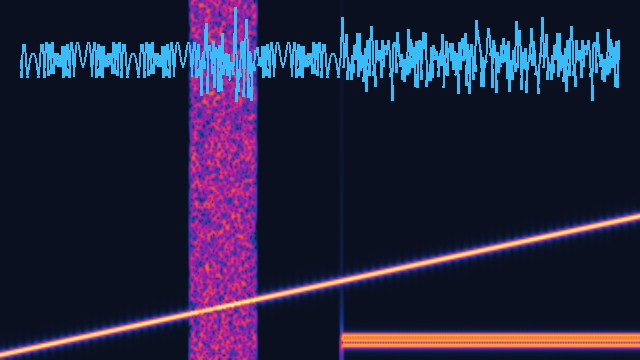
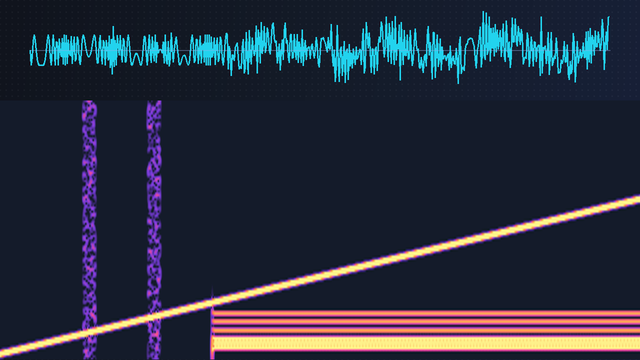
Refactor code structure for improved readability and maintainability

diff --git a/projects/compression/demo.js b/projects/compression/demo.js
@@ -88,7 +88,7 @@ const PRESETS = {
   'Fax мөр': '□□□□□□□□□□□□■■■■□□□□□□□□□□□□□□□■■■■■■■■■■□□□□□□□□□□□□□□□',
   'Random': null,
 };
-const PALETTE = ['#2563eb', '#16a34a', '#dc2626', '#9333ea', '#ea580c', '#0891b2', '#db2777', '#65a30d', '#7c3aed', '#ca8a04'];
+const PALETTE = ['#22d3ee', '#4ade80', '#fbbf24', '#f472b6', '#fb923c', '#a78bfa', '#fb7185', '#a3e635', '#60a5fa', '#facc15'];
 
 export function mount(root) {
   const h = (tag, props = {}, ...kids) => {
@@ -121,10 +121,10 @@ export function mount(root) {
   }
   input.oninput = () => { clearTimeout(debounce); debounce = setTimeout(() => { hStep = Infinity; colorOf.clear(); render(); }, 150); };
 
-  const card = (...kids) => h('div', { style: 'border:1px solid var(--line);border-radius:10px;padding:12px;background:var(--card)' }, ...kids);
+  const card = (...kids) => h('div', { className: 'navy-panel', style: 'border-radius:12px;padding:14px' }, ...kids);
   const note = s => h('p', { style: 'margin:0 0 10px;font-size:.9rem;color:var(--muted);line-height:1.5' }, s);
   const sizeLine = (bits, orig) => h('div', { style: 'margin-top:10px;font-size:.95rem;font-weight:600' },
-    `${bits.toLocaleString()} bit vs ${orig.toLocaleString()} bit → `, h('span', { style: `color:${bits < orig ? '#16a34a' : '#dc2626'}` }, `${Math.round((bits / orig) * 100)}%`));
+    `${bits.toLocaleString()} bit vs ${orig.toLocaleString()} bit → `, h('span', { style: `color:${bits < orig ? '#4ade80' : '#fb7185'}` }, `${Math.round((bits / orig) * 100)}%`));
 
   function renderRle(text, orig) {
     const { runs, bits } = rle(text);
@@ -175,16 +175,16 @@ export function mount(root) {
     forest.forEach(t => { place(t, 0); leaf += 0.6; });
     const W = Math.max(leaf * DX, 200), Hh = depthMax * DY + 56;
     svg.setAttribute('viewBox', `0 0 ${W} ${Hh}`);
-    svg.setAttribute('style', `width:100%;max-height:${Math.min(520, Hh * 1.4)}px;font-family:Inter,system-ui,sans-serif`);
+    svg.setAttribute('style', `display:block;width:100%;max-height:${Math.min(520, Hh * 1.4)}px;font-family:Inter,system-ui,sans-serif;padding:8px`);
     let out = '';
     const draw = n => {
       if (n.ch !== undefined) {
-        out += `<circle cx="${n._x}" cy="${n._y}" r="${R}" fill="${tint(n.ch)}"/><text x="${n._x}" y="${n._y + 1}" text-anchor="middle" dominant-baseline="central" font-size="12" font-weight="700" fill="#fff">${esc(show(n.ch))}</text><text x="${n._x}" y="${n._y + R + 11}" text-anchor="middle" font-size="10" fill="var(--muted)">${n.f}</text>`;
+        out += `<circle cx="${n._x}" cy="${n._y}" r="${R}" fill="${tint(n.ch)}"/><text x="${n._x}" y="${n._y + 1}" text-anchor="middle" dominant-baseline="central" font-size="12" font-weight="700" fill="#10141d">${esc(show(n.ch))}</text><text x="${n._x}" y="${n._y + R + 11}" text-anchor="middle" font-size="10" fill="var(--muted)">${n.f}</text>`;
         return;
       }
       for (const [c, bit] of [[n.left, 0], [n.right, 1]]) {
-        out += `<line x1="${n._x}" y1="${n._y}" x2="${c._x}" y2="${c._y}" stroke="var(--muted)" stroke-width="1.4"/>`;
-        out += `<text x="${(n._x + c._x) / 2 + (bit ? 6 : -6)}" y="${(n._y + c._y) / 2}" text-anchor="middle" font-size="10" font-weight="700" fill="var(--accent)">${bit}</text>`;
+        out += `<line x1="${n._x}" y1="${n._y}" x2="${c._x}" y2="${c._y}" stroke="var(--muted)" stroke-width="1.6"/>`;
+        out += `<text x="${(n._x + c._x) / 2 + (bit ? 6 : -6)}" y="${(n._y + c._y) / 2}" text-anchor="middle" font-size="10" font-weight="700" fill="#fbbf24">${bit}</text>`;
         draw(c);
       }
       out += `<circle cx="${n._x}" cy="${n._y}" r="${R}" fill="var(--card)" stroke="var(--fg)" stroke-width="1.4"/><text x="${n._x}" y="${n._y + 1}" text-anchor="middle" dominant-baseline="central" font-size="11" fill="var(--fg)">${n.f}</text>`;
@@ -212,7 +212,7 @@ export function mount(root) {
       if (t.ch !== undefined) { list.append(h('span', { textContent: show(t.ch), style: 'padding:2px 5px;margin:1px;border-radius:5px;background:var(--code)' })); return; }
       const col = PALETTE[i % PALETTE.length];
       for (let k = 0; k < t.len; k++) { spans[t.at + k].style.color = col; spans[t.at + k].style.fontWeight = '700'; }
-      const chip = h('span', { textContent: `⟲${t.off},${t.len}`, title: `${t.off} тэмдэгтийн өмнөхөөс ${t.len}-ийг хуулах`, style: `cursor:help;padding:2px 6px;margin:1px;border-radius:5px;color:#fff;background:${col}` });
+      const chip = h('span', { textContent: `⟲${t.off},${t.len}`, title: `${t.off} тэмдэгтийн өмнөхөөс ${t.len}-ийг хуулах`, style: `cursor:help;padding:2px 6px;margin:1px;border-radius:5px;color:#10141d;font-weight:700;background:${col}` });
       chip.onmouseenter = () => mark(t, true); chip.onmouseleave = () => mark(t, false);
       list.append(chip);
     });

diff --git a/projects/trie/demo.js b/projects/trie/demo.js
@@ -68,7 +68,7 @@ export function mount(root) {
   const setBtns = Object.keys(SETS).map(k => h('button', { textContent: k, onclick: () => load(k) }));
   seg.append(...setBtns);
   const status = h('div', { style: 'font-size:.9rem;min-height:1.4em' });
-  const svgWrap = h('div', { style: 'flex:1;min-height:240px;overflow:auto;border-top:1px solid var(--line);border-bottom:1px solid var(--line)' });
+  const svgWrap = h('div', { className: 'navy-panel', style: 'flex:1;min-height:240px;overflow:auto;margin:0 14px' });
   const sugg = h('div', { style: 'display:flex;flex-wrap:wrap;gap:6px;align-items:center' });
   const stats = h('div', { style: 'font-size:.82rem;color:var(--muted)' });
   const row = (...kids) => h('div', { style: 'display:flex;flex-wrap:wrap;gap:8px 12px;align-items:center' }, ...kids);
@@ -169,13 +169,13 @@ export function mount(root) {
     let out = '';
     for (const [a, b] of edges) {
       const p = pos.get(a), q = pos.get(b), on = onPath.has(a) && onPath.has(b);
-      out += `<path d="M${p.x},${p.y} C${p.x + DX / 2},${p.y} ${q.x - DX / 2},${q.y} ${q.x},${q.y}" fill="none" stroke="${on ? '#f59e0b' : 'var(--line)'}" stroke-width="${on ? 3.5 : 1.6}"/>`;
+      out += `<path d="M${p.x},${p.y} C${p.x + DX / 2},${p.y} ${q.x - DX / 2},${q.y} ${q.x},${q.y}" fill="none" stroke="${on ? '#fbbf24' : 'var(--line)'}" stroke-width="${on ? 3.5 : 1.8}"/>`;
     }
     for (const [n, p] of pos) {
       const isRoot = n === trie.root, on = onPath.has(n), isNew = fresh.has(n);
-      const fill = n.end ? 'var(--accent)' : 'var(--card)', stroke = isNew ? '#16a34a' : on ? '#f59e0b' : n.end ? 'var(--accent)' : 'var(--muted)';
+      const fill = n.end ? '#4ade80' : 'var(--card)', stroke = isNew ? '#22d3ee' : on ? '#fbbf24' : n.end ? '#4ade80' : 'var(--muted)';
       out += `<circle cx="${p.x}" cy="${p.y}" r="${isRoot ? 8 : R}" fill="${isRoot ? 'var(--fg)' : fill}" stroke="${stroke}" stroke-width="${on || isNew ? 3.5 : 1.5}"/>`;
-      if (!isRoot) out += `<text x="${p.x}" y="${p.y + 0.5}" text-anchor="middle" dominant-baseline="central" font-size="13" font-weight="700" fill="${n.end ? '#fff' : 'var(--fg)'}">${esc(p.ch)}</text>`;
+      if (!isRoot) out += `<text x="${p.x}" y="${p.y + 0.5}" text-anchor="middle" dominant-baseline="central" font-size="13" font-weight="700" fill="${n.end ? '#10141d' : 'var(--fg)'}">${esc(p.ch)}</text>`;
       if (p.hidden) out += `<text x="${p.x}" y="${p.y + R + 11}" text-anchor="middle" font-size="10" fill="var(--muted)">+${p.hidden} үг</text>`;
     }
     // The missing letter gets its own row above the tree, so it never sits on top of a real branch.
@@ -183,7 +183,7 @@ export function mount(root) {
     if (missing) {
       const p = pos.get(path[path.length - 1]), gx = p.x + DX, gy = Math.min(...[...pos.values()].map(v => v.y)) - DY;
       top = gy - 18;
-      out += `<path d="M${p.x},${p.y} C${p.x + DX / 2},${p.y} ${gx - DX / 2},${gy} ${gx},${gy}" fill="none" stroke="#dc2626" stroke-width="2" stroke-dasharray="4 4"/><circle cx="${gx}" cy="${gy}" r="${R}" fill="var(--card)" stroke="#dc2626" stroke-width="2" stroke-dasharray="3 3"/><text x="${gx}" y="${gy + 0.5}" text-anchor="middle" dominant-baseline="central" font-size="13" font-weight="700" fill="#dc2626">${esc(missing)}</text><text x="${gx + R + 6}" y="${gy + 0.5}" dominant-baseline="central" font-size="11" fill="#dc2626">байхгүй</text>`;
+      out += `<path d="M${p.x},${p.y} C${p.x + DX / 2},${p.y} ${gx - DX / 2},${gy} ${gx},${gy}" fill="none" stroke="#fb7185" stroke-width="2" stroke-dasharray="4 4"/><circle cx="${gx}" cy="${gy}" r="${R}" fill="var(--card)" stroke="#fb7185" stroke-width="2" stroke-dasharray="3 3"/><text x="${gx}" y="${gy + 0.5}" text-anchor="middle" dominant-baseline="central" font-size="13" font-weight="700" fill="#fb7185">${esc(missing)}</text><text x="${gx + R + 6}" y="${gy + 0.5}" dominant-baseline="central" font-size="11" fill="#fb7185">байхгүй</text>`;
     }
     svg.setAttribute('viewBox', `-30 ${top} ${W} ${H - 18 - top}`);
     svg.style.height = `${H - 18 - top}px`;

diff --git a/site/style.css b/site/style.css
@@ -43,7 +43,12 @@ body:has(main.home) .top{padding-inline:max(16px,calc((100% - 1320px)/2 + 16px))
 @media(max-width:800px){.grid{grid-template-columns:repeat(2,minmax(0,1fr))}}
 .card{position:relative;display:flex;flex-direction:column;background:var(--card);border:1px solid var(--line);border-radius:16px;overflow:hidden;box-shadow:var(--shadow);transition:border-color .2s,transform .2s,box-shadow .2s}
 .card:hover,.card:focus-within{border-color:color-mix(in srgb,var(--accent) 55%,var(--line));transform:translateY(-3px)}
-.thumb{aspect-ratio:16/9;background:radial-gradient(circle at 50% 40%,color-mix(in srgb,var(--accent) 10%,transparent),transparent 70%),var(--thumb);border-bottom:1px solid var(--line);overflow:hidden}
+/* Dark diagram panel inside demos (Huffman tree, trie): same backdrop as the thumbnails, with the colour
+   variables redefined so SVGs drawn with var(--fg) etc. stay readable in both site themes. */
+.navy-panel{--fg:#e8eefc;--muted:#93b2eb;--line:rgb(147 178 235/.38);--card:#151c2b;--accent:#22d3ee;--accent-soft:rgb(34 211 238/.16);--code:rgb(255 255 255/.07);color:var(--fg);
+  background:radial-gradient(rgb(255 255 255/.035) 1px,transparent 1.3px) 0 0/6px 6px,linear-gradient(105deg,#10141d 0%,#141b28 45%,#18213a 100%);border-radius:12px}
+/* Thumbnail backdrop: dark navy gradient with a faint dot texture (generated thumbnails use the same gradient). */
+.thumb{aspect-ratio:16/9;background:radial-gradient(rgb(255 255 255/.035) 1px,transparent 1.3px) 0 0/6px 6px,linear-gradient(105deg,#10141d 0%,#141b28 45%,#18213a 100%);border-bottom:1px solid var(--line);overflow:hidden}
 .thumb img{width:100%;height:100%;object-fit:cover;display:block;transition:transform .4s}
 .card:hover .thumb img{transform:scale(1.04)}
 .card-body{display:flex;flex-direction:column;flex:1;padding:16px 18px 18px}

diff --git a/site/app.js b/site/app.js
@@ -81,7 +81,7 @@ function renderHome() {
 
 // The title link stretches over the whole card; tags sit above it so they stay clickable as filters.
 const card = (p, setTag) => el('article', { class: 'card' },
-  el('div', { class: 'thumb' }, p.thumb ? el('img', { src: p.thumb, alt: '', loading: 'lazy' }) : ''),
+  el('div', { class: 'thumb' }, p.thumb ? el('img', { src: versioned(p.thumb), alt: '', loading: 'lazy' }) : ''),
   el('div', { class: 'card-body' },
     el('h2', {}, el('a', { href: `#/p/${p.id}` }, p.title),
       p.status !== 'live' ? el('span', { class: `badge status-${p.status}` }, STATUS[p.status] || p.status) : ''),
@@ -177,7 +177,7 @@ async function renderDocs(p, panel, file = 'README.md') {
     });
     box.querySelectorAll('pre code').forEach(c => window.hljs?.highlightElement(c));
     // README links/images are relative to the project folder, not the site.
-    box.querySelectorAll('img[src]').forEach(i => { i.src = new URL(i.getAttribute('src'), base); });
+    box.querySelectorAll('img[src]').forEach(i => { i.src = versioned(i.getAttribute('src'), base); });
     // A paragraph holding only an image becomes a figure, captioned by its alt text.
     box.querySelectorAll('p > img:only-child').forEach(img => {
       if (img.parentElement.textContent.trim()) return;
@@ -231,7 +231,7 @@ async function renderReal(p, panel) {
     return;
   }
   const items = data.items || [];
-  const asset = f => new URL(f, base).href;
+  const asset = f => versioned(f, base).href;
   let filter = null;
 
   const grid = el('div', { class: 'rgrid' });

diff --git a/site/index.html b/site/index.html
@@ -11,7 +11,7 @@
 <link rel="preconnect" href="https://fonts.gstatic.com" crossorigin>
 <link rel="stylesheet" href="https://fonts.googleapis.com/css2?family=Inter:wght@400;500;600;700;800&family=JetBrains+Mono:wght@400;500&display=swap">
 <!-- Bump ?v= when style.css or app.js change so browsers skip their cached copy. -->
-<link rel="stylesheet" href="style.css?v=43">
+<link rel="stylesheet" href="style.css?v=49">
 </head>
 <body>
 <header class="top">
@@ -25,6 +25,6 @@
 <script src="https://cdnjs.cloudflare.com/ajax/libs/dompurify/3.1.6/purify.min.js"></script>
 <script src="https://cdnjs.cloudflare.com/ajax/libs/KaTeX/0.16.9/katex.min.js"></script>
 <script src="https://cdnjs.cloudflare.com/ajax/libs/highlight.js/11.9.0/highlight.min.js"></script>
-<script src="app.js?v=43"></script>
+<script src="app.js?v=49"></script>
 </body>
 </html>
